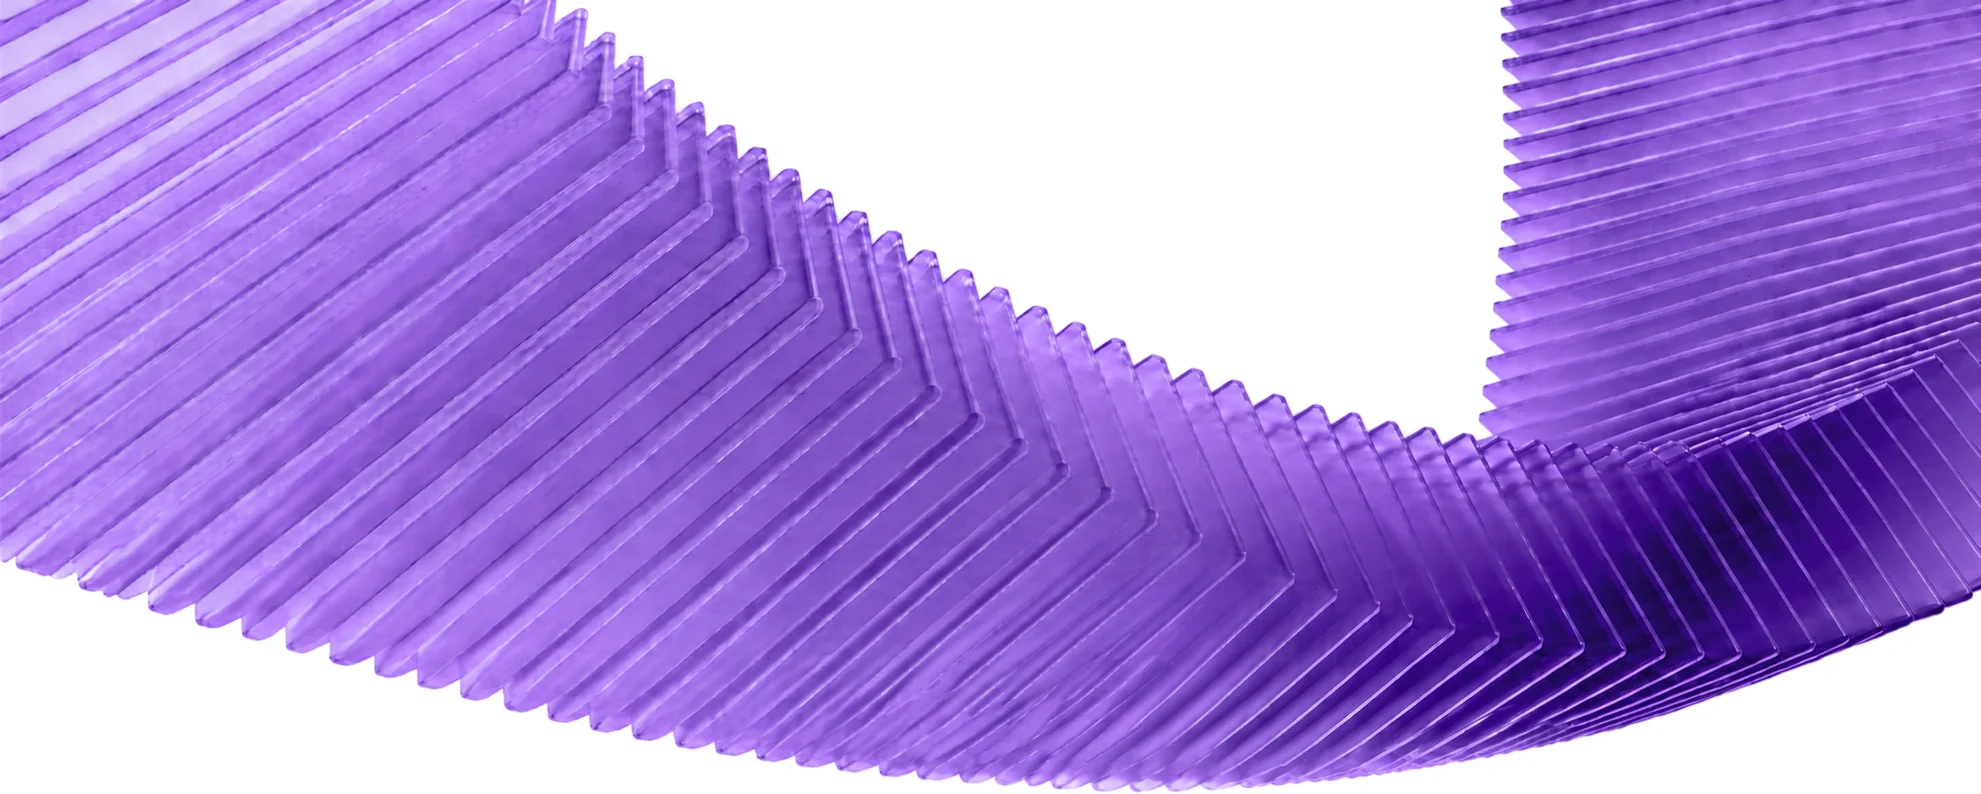
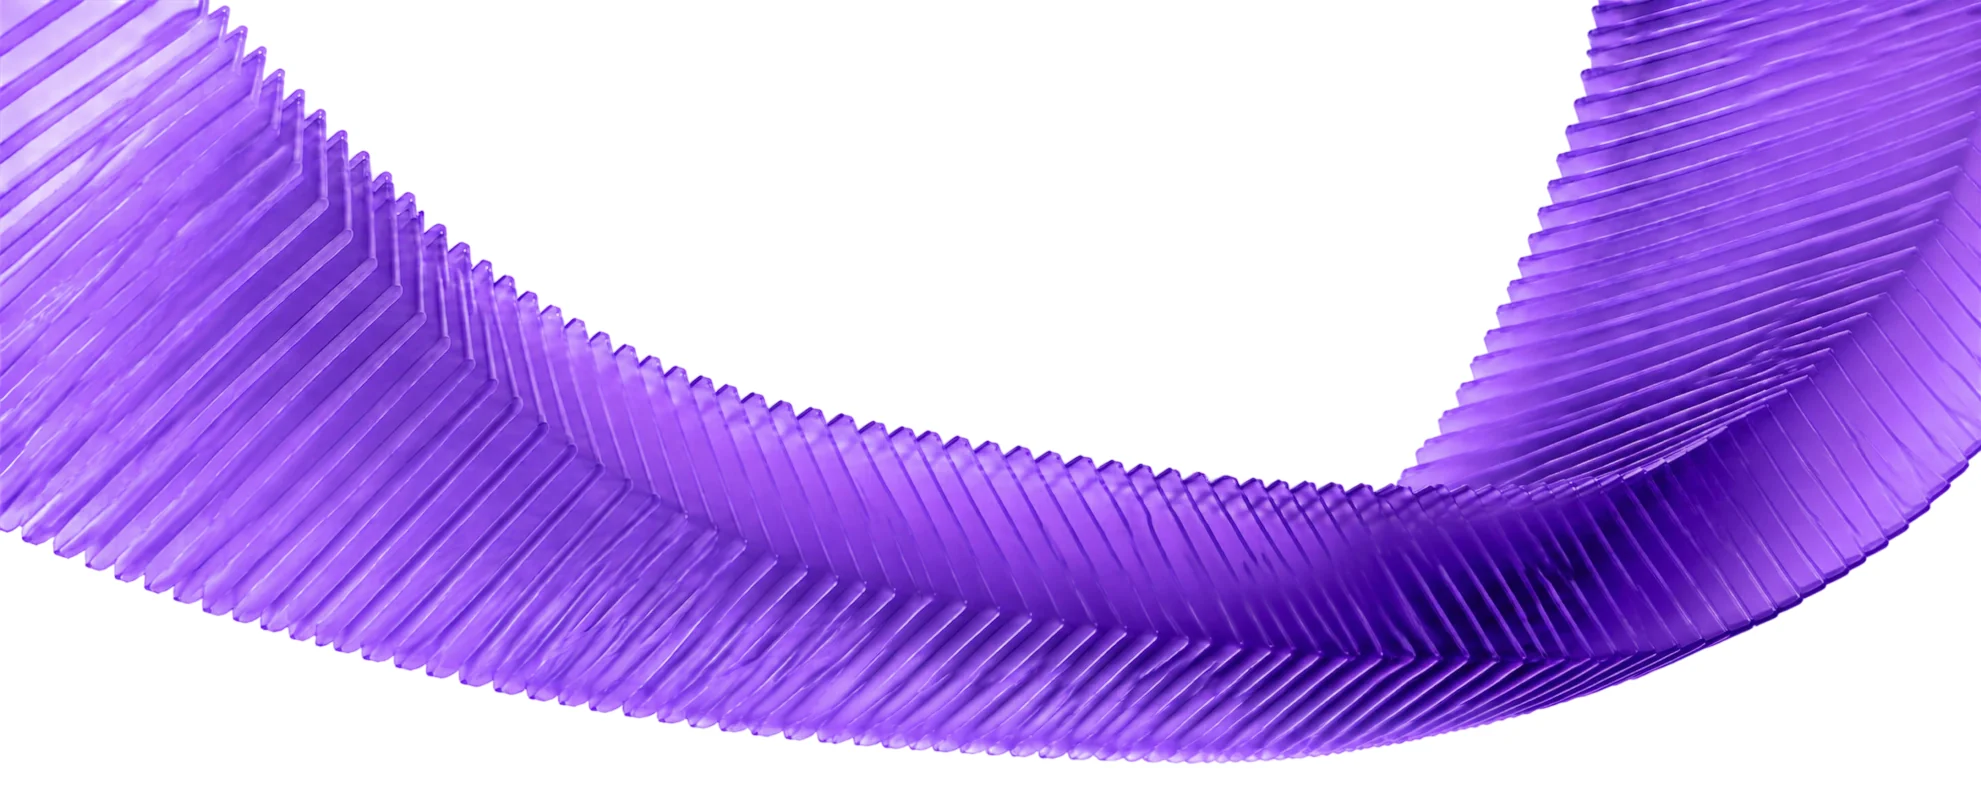
Abertura: troca a foto das lâminas e ajusta a assinatura ao roxo dela
Claude-Session: https://claude.ai/code/session_01RowSqNRkerTgDrzqNvXTa8

diff --git a/index-v2.html b/index-v2.html
@@ -234,9 +234,9 @@
     .abertura-titulo span { -webkit-text-stroke-width: 0; letter-spacing: -0.01em; }
     .abertura-titulo .t1, .abertura-titulo .t2 { letter-spacing: -0.03em; word-spacing: -.04em; }
     .abertura-titulo em { font-style: normal; color: #a19e99; letter-spacing: -0.01em; -webkit-text-stroke-width: 0; }
-    /* 70% da altura da foto, no meio dela, e sempre faixa roxa (medido: roxo de 43% a 98%) */
+    /* 76% da altura da foto, no meio dela, e sempre faixa roxa (medido: roxo de 58% a 94%) */
     .abertura-assina {
-      position: absolute; left: 50%; top: 70%; transform: translate(-50%, -50%); width: max-content;
+      position: absolute; left: 50%; top: 76%; transform: translate(-50%, -50%); width: max-content;
       display: grid; gap: 2px; color: #fff; text-align: center; text-shadow: 0 1px 14px rgba(36,14,80,.45);
     }
     .abertura-assina strong { font-family: var(--recoleta); font-weight: 400; font-size: clamp(24px, 2vw, 32px); letter-spacing: 0; -webkit-text-stroke-width: 0; }
